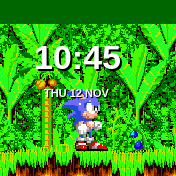
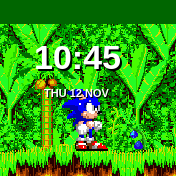
Maximize blue color saturation for Bangle.js 2 hardware

Changed region(s): [[0.3409, 0.483, 0.5682, 0.7102], [0.4545, 0.7102, 0.5398, 0.7955]]

diff --git a/apps/sonic3clk/app-icon.js b/apps/sonic3clk/app-icon.js
@@ -1,1 +1,1 @@
[2 lines of base64/hex data omitted]

diff --git a/apps/sonic3clk/tools/sprite-tool.js b/apps/sonic3clk/tools/sprite-tool.js
@@ -46,8 +46,8 @@ const SONIC_PALETTE = [
   0x703810, // 5: Deep Skin Crease Shadow (#703810)
   0x006600, // 6: Green
   0x00aa00, // 7: Bright Green
-  0x6C6CFC, // 8: Light Blue (#6C6CFC - Sonic 3 periwinkle highlight)
-  0x2448D8, // 9: Mid Blue (#2448D8 - Sonic 3 cobalt body)
+  0x0000FF, // 8: Highlight Blue (#0000FF - 100% Solid Blue, 0% Red, 0% Green)
+  0x0000AA, // 9: Body Blue (#0000AA - Deep Blue, 0% Red, 0% Green)
   0x330099, // 10: Deep Purple
   0xff0099, // 11: Pink
   0xFC0000, // 12: Shoe Red (#FC0000)

diff --git a/apps/sonic3clk/app.js b/apps/sonic3clk/app.js
@@ -1,7 +1,7 @@
 const vw = g.getWidth();
 const bgWidth = 384;
 
-const sonicPalette = new Uint16Array(E.toArrayBuffer(E.toFlatString(atob("AAAAAFGM171ps8JxIANABX9rWyITMBP4APiy/eD///8="))));
+const sonicPalette = new Uint16Array(E.toArrayBuffer(E.toFlatString(atob("AAAAAFGM171ps8JxIANABR8AFQATMBP4APiy/eD///8="))));
 const sonic = {
   bpp: 4,
   transparent: 1,
